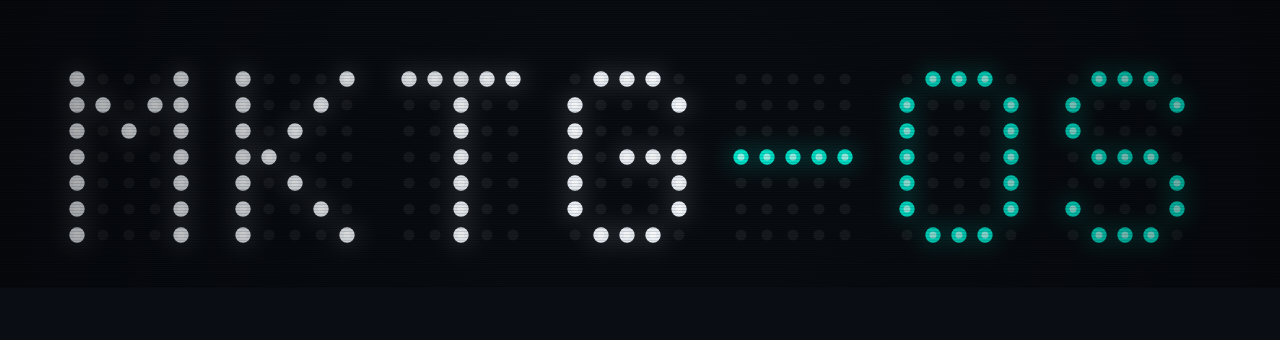
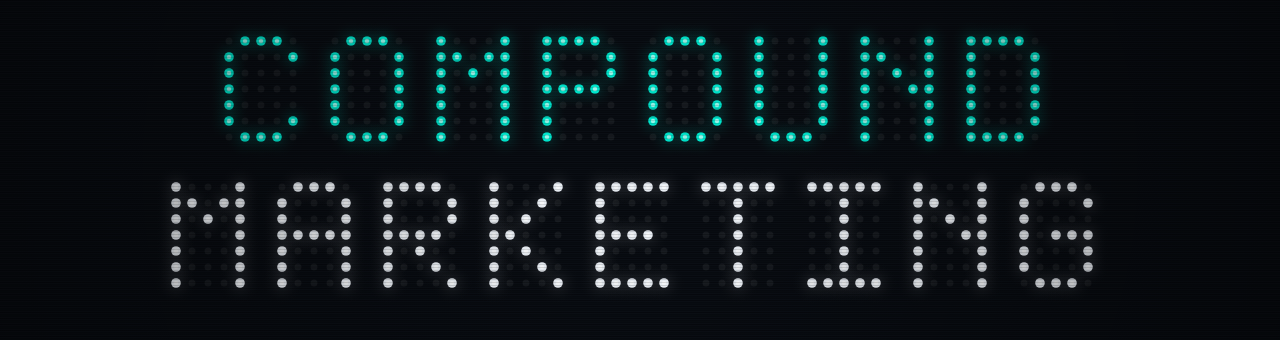
Rename Marketing OS to Compound Marketing
New name reflects the core thesis: each unit of marketing work should
make the next one easier. Skills compound into chained workflows, and
session learnings feed back into the system. Inspired by Every's
compound engineering.

- README: new title, compounding intro, B2B positioning, new repo URLs
- Regenerate dot-matrix header graphic (COMPOUND / MARKETING)
- Rename .marketing-os.yml to .compound-marketing.yml across generator,
  setup skill, sync-skills skill, and templates
- Update plugin manifests to "compound-marketing"
- GitHub repo renamed to t0ddharris/compound-marketing (old URLs redirect)

Claude-Session: https://claude.ai/code/session_01R7UFTM6zhRsLXse2mFTN2U

diff --git a/.claude/skills/setup/SKILL.md b/.claude/skills/setup/SKILL.md
@@ -1,12 +1,12 @@
 ---
 name: setup
 version: 3.0.0
-description: "Create a new Marketing OS for your company. Trigger with /setup. Asks your company name, scaffolds a standalone repo with all skills and brain templates, then walks you through configuring everything."
+description: "Create a new Compound Marketing instance for your company. Trigger with /setup. Asks your company name, scaffolds a standalone repo with all skills and brain templates, then walks you through configuring everything."
 ---
 
-# Marketing OS Setup
+# Compound Marketing Setup
 
-Run `/setup` to create a new, fully configured Marketing OS for your company. This is the first thing a user does after cloning marketing-os.
+Run `/setup` to create a new, fully configured Compound Marketing instance for your company. This is the first thing a user does after cloning compound-marketing.
 
 ## Overview
 
@@ -30,7 +30,7 @@ Then derive the default path: `../[company-slug]-marketing/` (lowercase, hyphena
 
 Ask:
 
-> I'll create your marketing OS at `[path]`. Good, or would you prefer a different location?
+> I'll create your Compound Marketing instance at `[path]`. Good, or would you prefer a different location?
 
 ---
 
@@ -63,7 +63,7 @@ This script:
 - Copies all skills into both `.claude/skills/` and `.agents/skills/` (hardlinked)
 - Copies agents into the primary runtime's agents directory
 - Generates both `CLAUDE.md` and `AGENTS.md` (identical except title and path references)
-- Writes `.marketing-os.yml` with the primary runtime setting
+- Writes `.compound-marketing.yml` with the primary runtime setting
 - Copies brain templates with `[FILL IN]` placeholders
 - Copies Vale styles, settings, .gitignore
 - Initializes git with an initial commit
@@ -73,11 +73,11 @@ If the script doesn't exist or fails, do the same work manually:
 - Copy skills into both `.claude/skills/` and `.agents/skills/`
 - Copy agents into the primary runtime's agents directory
 - Generate both `CLAUDE.md` and `AGENTS.md`
-- Write `.marketing-os.yml` with `primary_runtime: [claude|codex]`
+- Write `.compound-marketing.yml` with `primary_runtime: [claude|codex]`
 - Copy brain/, styles/, PRODUCT.md, INDEX.md, .vale.ini, .claude/settings.json, .env.example, .gitignore
-- `git init && git add -A && git commit -m "Initial setup: [Company] marketing OS"`
+- `git init && git add -A && git commit -m "Initial setup: [Company] Compound Marketing instance"`
 
-**All remaining steps operate on files in the NEW repo, not the marketing-os source repo.**
+**All remaining steps operate on files in the NEW repo, not the compound-marketing source repo.**
 
 ---
 
@@ -228,7 +228,7 @@ Update CLAUDE.md (and AGENTS.md — keep them in sync) in the new repo if they w
 
 Show the user what integrations are available and ask which ones they want to set up:
 
-> The Marketing OS can connect to these services for analytics, image generation, and meeting notes. Which do you use?
+> Compound Marketing can connect to these services for analytics, image generation, and meeting notes. Which do you use?
 
 | Service | What it powers | Required? |
 |---------|---------------|-----------|
@@ -269,7 +269,7 @@ git commit -m "Configure brain files for [Company]"
 Present (adapt the commands based on the runtime they chose — `/` for Claude, `$` for Codex):
 
 ```
-Setup complete. Your marketing OS is at: [path]
+Setup complete. Your Compound Marketing instance is at: [path]
 Primary runtime: [Claude Code | Codex]
 
 Brain files configured:
@@ -330,7 +330,7 @@ Utilities:
 
 ## Rules
 
-- All file writes happen in the NEW repo, never in marketing-os
+- All file writes happen in the NEW repo, never in compound-marketing
 - Never invent information the user didn't provide
 - Show what you'll write and confirm before saving
 - If the user wants to skip a step, skip it. Leave placeholders.

diff --git a/README.md b/README.md
@@ -1,18 +1,18 @@
 <p align="center">
-  <img src="github-social.png" alt="MKTG-OS">
+  <img src="github-social.png" alt="Compound Marketing">
 </p>
 
-# Marketing OS
+# Compound Marketing
 
-Scale your marketing without sacrificing quality. 
+**Each unit of marketing work should make the next one easier.**
 
-Marketing OS was built to give marketers and GTM teams more reach. It does three things:
+Compound Marketing is built primarily for B2B marketers and GTM teams — more reach without sacrificing quality. It does three things:
 
 - **Automates** repetitive production work through skills and workflows.
 - **Speeds up** the work you already do.
 - **Extends** into specialties you'd otherwise outsource or skip.
 
-It comes with various skills, workflows, and sub-agents, plus a "brain" template that forms a knowledge base of your company's positioning, personas, and brand, so every draft comes out on-brand and accurate.
+What makes it compound: skills capture how you do the work, workflows chain those skills into full pipelines, and a "brain" holds your company's positioning, personas, and brand. Every correction you make and every session you close feeds back into the system — so the hundredth blog post starts from everything the first ninety-nine taught it. The approach borrows from [compound engineering](https://github.com/EveryInc/compound-engineering-plugin), applied to marketing.
 
 Everything is moldable. You do not need to use the specialist sub-agents. Feel free to work with your main agent to customize the workflows and skills to your own processes and styles. Trim what you don't need, modify what you want, add what you're missing!
 
@@ -25,8 +25,8 @@ Works with **Claude Code** and **OpenAI Codex**.
 ### 1. Clone and scaffold
 
 ```bash
-git clone https://github.com/t0ddharris/mktg-os.git mktg-os
-cd mktg-os
+git clone https://github.com/t0ddharris/compound-marketing.git compound-marketing
+cd compound-marketing
 ./scripts/create-instance.sh
 ```
 
@@ -73,7 +73,7 @@ Once setup finishes, you're ready to go. Ask for what you need in plain language
 
 ## How It Works
 
-Marketing OS has four layers, each fixing a way AI marketing usually goes wrong:
+Compound Marketing has four layers, each fixing a way AI marketing usually goes wrong:
 
 - **Brain** (`brain/`) — One source of truth for your company. Every factual claim traces back to a brain file. If a fact isn't there, the system writes `[FILL IN]` instead of inventing one.
 - **Skills** (`.claude/skills/`) — Step-by-step workflows for specific tasks, each with its own references, templates, and approval gates.
@@ -144,7 +144,7 @@ Prefer to add the skills to an existing project instead of scaffolding a new rep
 
 **Claude Code:**
 ```bash
-claude plugin install --plugin-dir ./path-to-mktg-os
+claude plugin install --plugin-dir ./path-to-compound-marketing
 ```
 
 **Codex:** Clone into your Codex plugin path. The `.codex-plugin/plugin.json` manifest registers it automatically.

diff --git a/.claude/skills/sync-skills/SKILL.md b/.claude/skills/sync-skills/SKILL.md
@@ -10,17 +10,17 @@ Synchronize skills between Claude Code and Codex so both runtimes share the same
 
 ## Step 0: Detect Primary Runtime
 
-Read `.marketing-os.yml` in the repo root. The `primary_runtime` field (`claude` or `codex`) determines sync direction:
+Read `.compound-marketing.yml` in the repo root. The `primary_runtime` field (`claude` or `codex`) determines sync direction:
 
 - **claude** (default): `.claude/skills/` → `.agents/skills/`
 - **codex**: `.agents/skills/` → `.claude/skills/`
 
-If `.marketing-os.yml` doesn't exist or has no `primary_runtime`, default to `claude`.
+If `.compound-marketing.yml` doesn't exist or has no `primary_runtime`, default to `claude`.
 
 Set `SRC` and `DST` based on the primary:
 
 ```bash
-CONFIG=".marketing-os.yml"
+CONFIG=".compound-marketing.yml"
 PRIMARY="claude"
 if [ -f "$CONFIG" ]; then
   PRIMARY=$(grep 'primary_runtime:' "$CONFIG" | awk '{print $2}' | tr -d '"'"'" || echo "claude")
@@ -171,4 +171,4 @@ Primary runtime: [claude|codex]
 - The marker file contains the source path for traceability
 - Skip symlinked SKILL.md files in user-level sync — these are managed by their own installer
 - Never sync the `sync-skills` or `setup` skills themselves — they belong to the primary runtime only
-- Direction is always primary → secondary, governed by `.marketing-os.yml`
+- Direction is always primary → secondary, governed by `.compound-marketing.yml`

diff --git a/CLAUDE.md b/CLAUDE.md
@@ -1,6 +1,6 @@
-# Marketing OS Generator
+# Compound Marketing Generator
 
-This is the source repo for the Marketing OS, a distributable system that creates fully configured marketing environments for AI coding agents.
+This is the source repo for Compound Marketing, a distributable system that creates fully configured marketing environments for AI coding agents.
 
 ## What This Repo Is
 
@@ -30,10 +30,10 @@ Generated instances support both Claude Code (`.claude/`) and OpenAI Codex (`.ag
 
 - Scaffolds skills into both `.claude/skills/` and `.agents/skills/` (hardlinked)
 - Generates both `CLAUDE.md` and `AGENTS.md` (identical except title and path references)
-- Writes `.marketing-os.yml` recording the primary runtime
+- Writes `.compound-marketing.yml` recording the primary runtime
 - Includes a `sync-skills` skill that keeps the secondary in sync after edits
 
-Skills use `SKILL.md` as the entry point, which both runtimes understand. The `sync-skills` skill reads `.marketing-os.yml` to determine direction (primary → secondary).
+Skills use `SKILL.md` as the entry point, which both runtimes understand. The `sync-skills` skill reads `.compound-marketing.yml` to determine direction (primary → secondary).
 
 ## Key Rule
 

diff --git a/templates/README.md b/templates/README.md
@@ -1,4 +1,4 @@
-# [COMPANY] Marketing OS
+# [COMPANY] — Compound Marketing
 
 Your company's marketing operations system, powered by AI coding agents. This repo is the single source of truth for your marketing: brand knowledge, skills, workflows, and all generated content.
 
@@ -100,12 +100,12 @@ incoming/               Drop zone for raw inputs (notes, CSVs, briefs)
 .agents/agents/         Specialist agents (Codex) — mirrored from .claude/
 CLAUDE.md               Routing tables and rules (Claude Code)
 AGENTS.md               Routing tables and rules (Codex)
-.marketing-os.yml       Runtime configuration
+.compound-marketing.yml       Runtime configuration
 ```
 
 ## Keeping Skills in Sync
 
-If you edit a skill and use both Claude Code and Codex, run `/sync-skills` to keep the secondary runtime's copy up to date. The `.marketing-os.yml` file records which runtime is primary and governs sync direction.
+If you edit a skill and use both Claude Code and Codex, run `/sync-skills` to keep the secondary runtime's copy up to date. The `.compound-marketing.yml` file records which runtime is primary and governs sync direction.
 
 ## Session Workflow
 

diff --git a/templates/INDEX.md b/templates/INDEX.md
@@ -1,6 +1,6 @@
-# Marketing OS — Index
+# Compound Marketing — Index
 
-Master index for the marketing OS. Start here to find anything.
+Master index for this Compound Marketing instance. Start here to find anything.
 
 ## System
 

diff --git a/.claude/skills/INDEX.md b/.claude/skills/INDEX.md
@@ -80,5 +80,5 @@
 | [[revops/SKILL.md\|revops]] | Revenue operations, lead scoring, marketing-to-sales handoff |
 | [[site-architecture/SKILL.md\|site-architecture]] | Site hierarchy, navigation, URL structure planning |
 | [[brain-health/SKILL.md\|brain-health]] | Brain file completeness check with next-step recommendations |
-| [[setup/SKILL.md\|setup]] | Scaffold and configure a new Marketing OS instance |
+| [[setup/SKILL.md\|setup]] | Scaffold and configure a new Compound Marketing instance |
 | [[sync-skills/SKILL.md\|sync-skills]] | Sync skills between Claude Code and Codex runtimes |

diff --git a/templates/CLAUDE.md b/templates/CLAUDE.md
@@ -1,4 +1,4 @@
-# Claude Instructions for Marketing OS
+# Claude Instructions for Compound Marketing
 
 ## Human Authority
 